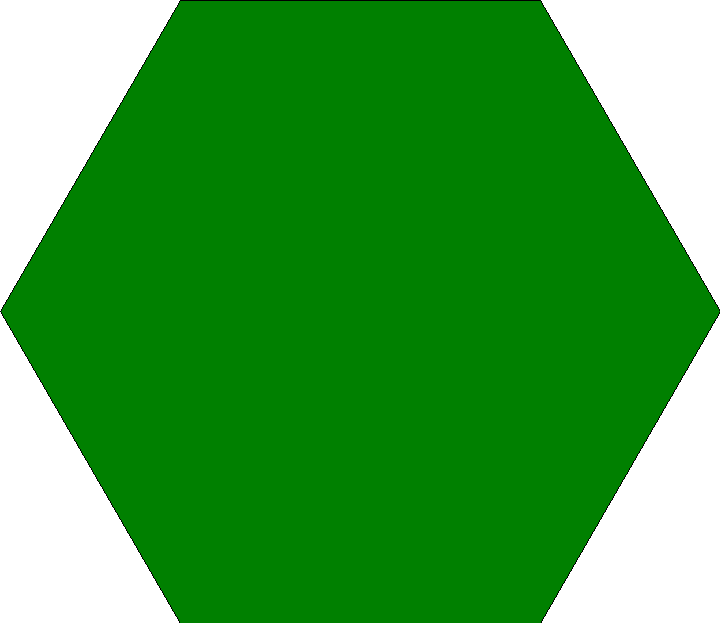
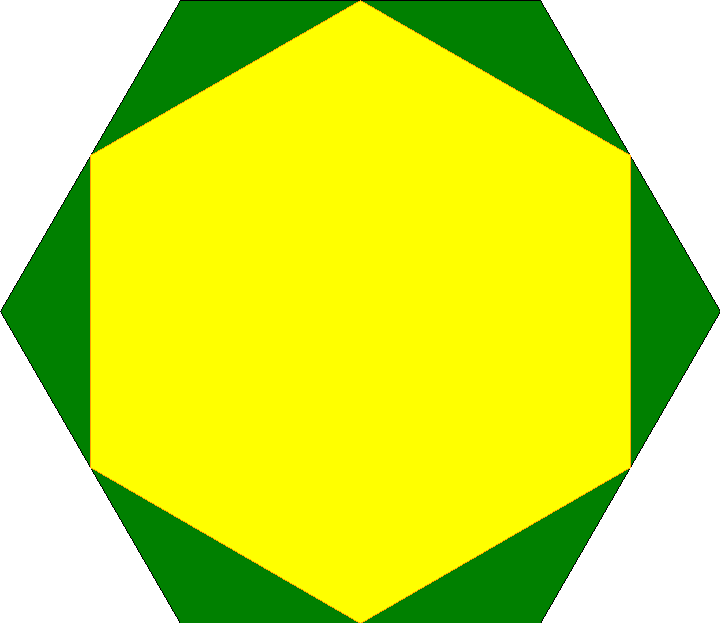
inner hex added

diff --git a/Hex.py b/Hex.py
@@ -19,14 +19,21 @@ hexarray = [
 ]
 
 #points were a path can enter / leave
+r2 = r*math.sqrt(3)/2
 patharray = [
-    (0.5*r+width/2-, 0),
-    ()
+    (width/2, 0),
+    (width/2+r2*math.sqrt(3)/2,height/2-0.5*r2),
+    (width/2+r2*math.sqrt(3)/2,height/2+0.5*r2),
+    (width/2, height),
+    (width/2-r2*math.sqrt(3)/2,height/2+0.5*r2),
+    (width/2-r2*math.sqrt(3)/2,height/2-0.5*r2)
 ]
 #points were rivers, mountains and forests can form.
 geoarray = []
 
 draw.polygon(hexarray, fill='green', outline='black')
+draw.polygon(patharray, fill='yellow', outline='orange')
+
 #draw.line((0, 0) + img.size, fill=(125,0,0,255))
 
 
